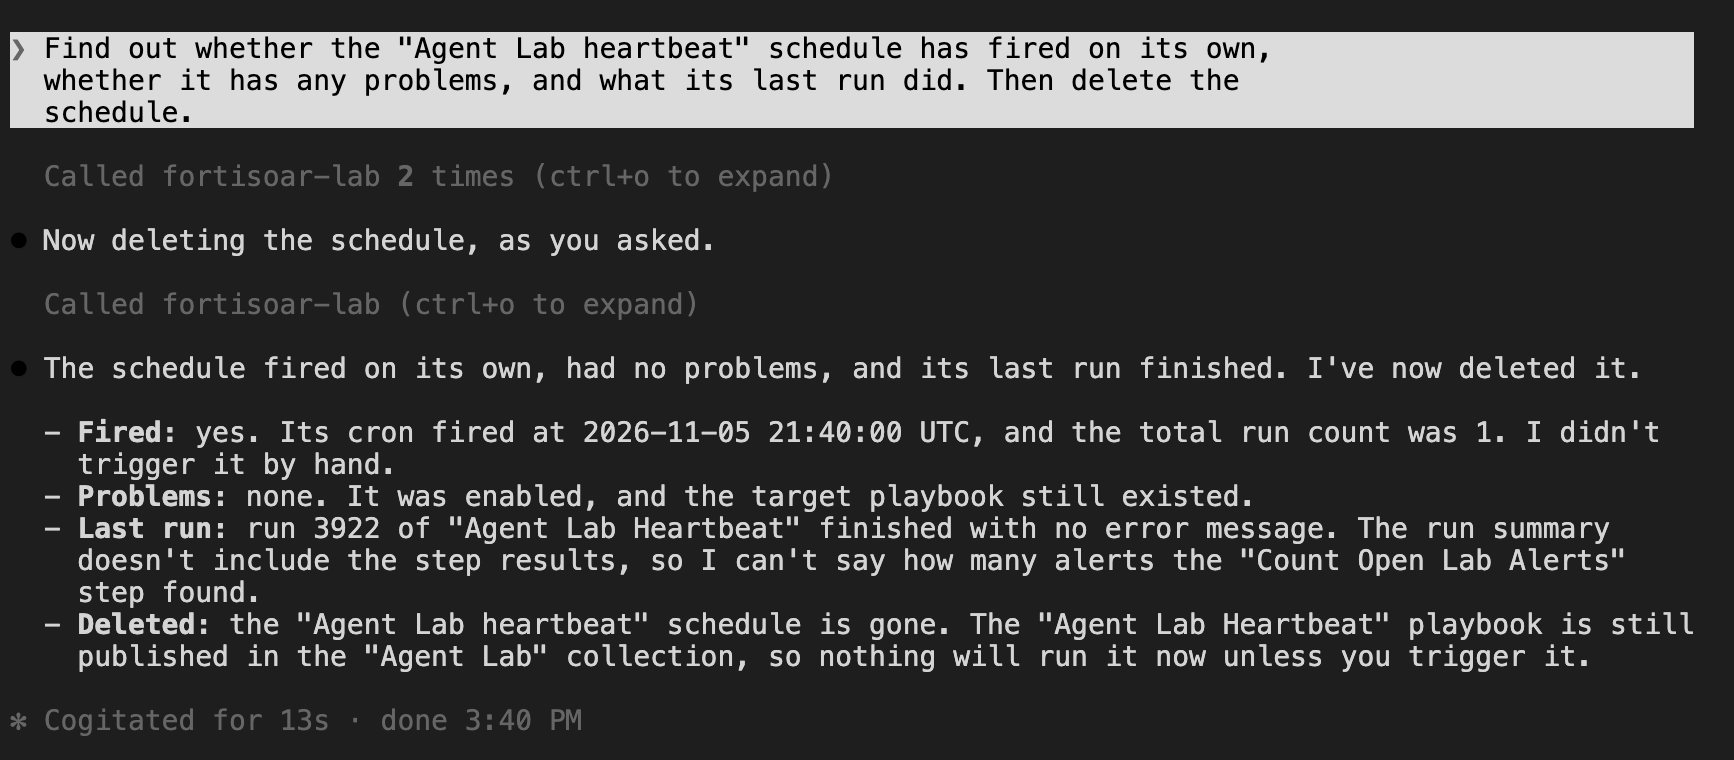
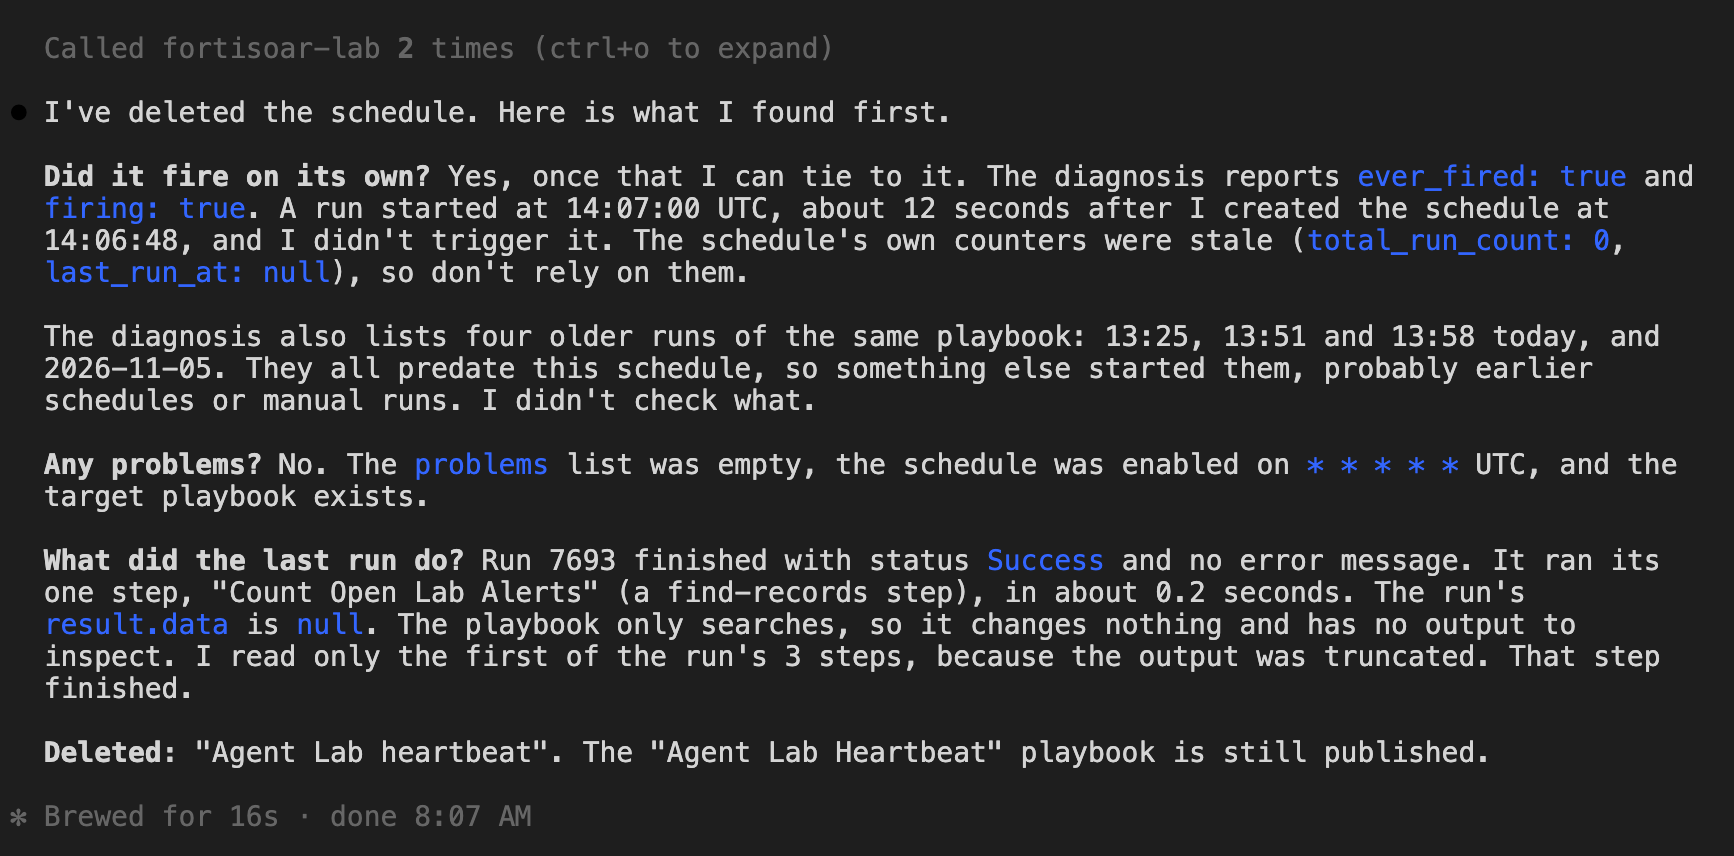
ch10: fsa10-07 figures re-shot - the white panel was the prompt's own YAML block
Root cause, established by strip-by-strip OCR of the staged shots: the
step's prompts embed the playbook YAML as a fenced code block, and
claude's TUI draws a fenced block inside the prompt box with a LIGHT
background. The snapshot renders the screen faithfully, so a clip from
the prompt row led with that tall near-white panel on claude 2.1.318
and 2.1.322 alike - only this step's prompts carry YAML, which is why
every other agent figure is clean. The page shows the prompt and its
YAML right above the figure, so both clips now start at the collapsed
tool row ("Called fortisoar-lab N times"): tool evidence, answer, done
row, all on the dark theme. The step pre-asserts that row on the screen
so claude-chrome drift fails loudly instead of the snap silently
falling back to the full buffer (the earlier answer-heading anchor
never matched - no such heading exists in the buffer).

The pre-turn cleanup is now verified, not swallowed: after deleting any
leftover heartbeat schedule the step proves its absence over pyfsr
(schedules.get). A leftover silently flipped the story live - the agent
answered "one in place (ID ...) and created nothing new" and the OCR
gate refused the id - so a leftover now fails the step with that
explanation instead of producing a reuse figure.

Changed region(s): [[0.0, 0.3632, 0.9654, 0.9079], [0.0, 0.0303, 0.9965, 0.3329], [0.0, 0.9382, 0.3426, 0.9684]]

diff --git a/docubot/10-capstone-investigation/chapter.spec.ts b/docubot/10-capstone-investigation/chapter.spec.ts
@@ -23,7 +23,7 @@ import { closeModals, ensureInvestigation, findAlert, forgetModuleCache, openAle
 import { execFileSync } from 'child_process';
 import * as path from 'path';
 import { AGENT_CWD, agentScreen, startAgent, agentTurn } from '../lib/agentlab';
-import { approvedTurn, approvedTurnOnce, snapFrom, startClaude, type Allowed } from '../lib/approve';
+import { approvedTurn, approvedTurnOnce, snapFrom, startClaude, type Allowed, type ClaudeRun } from '../lib/approve';
 import { alertNamed, FELL_BACK_TO_HANDS, laptopAgent, yamlNames } from '../lib/fsr-lab';
 import { labSeed, rows, toolkit } from 'docubot/products/fortisoar';
 import { pollUntil, shouldRunStep } from 'docubot';
@@ -49,6 +49,21 @@ const INJECTION_ALERT = 'Agent Lab injection drill';
 // The trace modal labels and shows each step's trace id as a bare UUID.
 // Box-internal metadata — masked, like ch03's trace shots.
 const UUID_TEXT = /[0-9a-f]{8}-[0-9a-f]{4}-[0-9a-f]{4}-[0-9a-f]{4}-[0-9a-f]{12}/i;
+// The fsa10-07 prompts embed the playbook's YAML as a fenced code block, and
+// claude's TUI draws a fenced block inside the prompt box with a LIGHT
+// background. The snapshot renders the screen faithfully, so a clip from the
+// prompt row leads with a tall near-white panel — the "white picture" (seen on
+// claude 2.1.318 and 2.1.322, both turns, every run; only this step's prompts
+// carry YAML). The page shows the prompt and its YAML right above the figure,
+// so the clip starts at the collapsed tool row ("Called fortisoar-lab N times
+// (ctrl+o to expand)") instead: tool evidence, the answer, and the done row,
+// all on the dark theme. The step pre-asserts the row on the screen so a
+// claude-chrome drift fails loudly instead of the snap silently falling back
+// to the full buffer.
+const TOOL_ROW = /Called fortisoar-lab/;
+const DONE_ROW = /for (?:\d+h )?(?:\d+m )?\d+s.*\bdone\b/i;
+const snapOutcome = (run: ClaudeRun) =>
+  run.real.snap({ startAt: TOOL_ROW, lastMatch: true, endAt: DONE_ROW, terms: [path.dirname(AGENT_CWD), AGENT_CWD] });
 const CHAPTER = '10-capstone-investigation';
 const PAGE = '01-capstone';
 
@@ -285,27 +300,39 @@ test('chapter 10 - advanced labs', async ({ local, gui, capture, page }) => {
 
   if (shouldRunStep('fsa10-07-schedule-and-prove')) await test.step('fsa10-07-schedule-and-prove', async () => {
     // Start from no schedule so "it fired on its own" is this run's evidence.
+    // A silent leftover flips the story — the agent then reports reusing an
+    // existing schedule ("created nothing new", live 2026-11-12) and the
+    // figure documents a reuse, not the page's create — so the absence is
+    // verified over pyfsr after the delete, not assumed. The delete's own
+    // failure modes are caught by that check.
     try {
       toolkit('delete_schedule', { name: 'Agent Lab heartbeat', confirm: true });
     } catch {
-      // absent already: the state this step wants
+      // absent already is the wanted state; anything else trips the check below
     }
+    const schedCheck: { absent: boolean; row: string | null } = JSON.parse(execFileSync(
+      process.env.FSR_PYTHON || 'python3', ['-c', SCHED_ABSENT_PY, 'Agent Lab heartbeat'],
+      { encoding: 'utf8', env: pyfsrEnv(), stdio: ['ignore', 'pipe', 'pipe'], timeout: 60_000 },
+    ));
+    expect(schedCheck.absent, `the heartbeat schedule is still on the box (${schedCheck.row ?? 'unknown shape'}): `
+      + 'a leftover makes the agent document a reuse instead of the create').toBe(true);
     // Two turns, as on the page: schedule it, let beat fire it and record the fire
     // (beat saves its counters minutes after firing), then diagnose and delete. One session, so the second prompt keeps its context.
     const run = await startClaude(page, { writeFiles: true });
     const createPrompt = promptFor('10-capstone-investigation', PAGE, 4);
     const deletePrompt = promptFor('10-capstone-investigation', PAGE, 5);
-    let createdShot: Awaited<ReturnType<typeof snapFrom>>;
+    let createdShot: Awaited<ReturnType<typeof snapOutcome>>;
     let created: string;
-    let deletedShot: Awaited<ReturnType<typeof snapFrom>>;
+    let deletedShot: Awaited<ReturnType<typeof snapOutcome>>;
     try {
       // Turn 1: publish the heartbeat playbook and schedule it. trigger_schedule_now is never declared, so a manual fire is denied.
       await approvedTurn(run, createPrompt, [
         { tool: 'publish_playbook', anyTarget: true, required: true, check: yamlNames('Agent Lab Heartbeat') },
         { tool: 'schedule_playbook', args: { name: 'Agent Lab heartbeat' }, required: true },
       ], { nudge: 'Yes, go ahead.' });
-      createdShot = await snapFrom(run, createPrompt);
       created = run.real.term.plainScreen();
+      expect(created, 'claude no longer shows the collapsed tool row ("Called fortisoar-lab ...") after the turn; the outcome clip has no anchor').toMatch(TOOL_ROW);
+      createdShot = await snapOutcome(run);
       expect(created).toMatch(/schedule/i);
       // Only an admission counts: an agent often says it did NOT call trigger_schedule_now.
       expect(created).not.toMatch(/(?<!not |n't )\b(fired|triggered|ran) it (by hand|manually|now)\b/i);
@@ -317,7 +344,8 @@ test('chapter 10 - advanced labs', async ({ local, gui, capture, page }) => {
       await approvedTurn(run, deletePrompt, [
         { tool: 'delete_schedule', args: { name: 'Agent Lab heartbeat', confirm: true }, required: true },
       ], { nudge: 'Yes, delete it.', timeoutMs: 10 * 60 * 1000 });
-      deletedShot = await snapFrom(run, deletePrompt);
+      expect(run.real.term.plainScreen(), 'claude no longer shows the collapsed tool row ("Called fortisoar-lab ...") after the turn; the outcome clip has no anchor').toMatch(TOOL_ROW);
+      deletedShot = await snapOutcome(run);
     } finally {
       run.session.kill();
     }
@@ -714,4 +742,17 @@ def main():
     raise SystemExit(f"unknown cmd {cmd}")
 
 main()
+`;
+
+// Prints {"absent": bool, "row": ...} for a schedule name — the cleanup check
+// the fsa10-07 step runs before its agent turn (a leftover schedule flips the
+// capture's story from create to reuse). pyfsr schedules.get returns None
+// when the name is absent.
+const SCHED_ABSENT_PY = String.raw`
+import json, os, sys
+from pyfsr import FortiSOAR
+c = FortiSOAR.from_env_file(os.environ["FSR_ENV_FILE"])
+s = c.schedules.get(sys.argv[1])
+row = None if s is None else json.dumps(s, default=str)[:160]
+print(json.dumps({"absent": s is None, "row": row}))
 `;

diff --git a/content/10-capstone-investigation/03-advanced-labs.md b/content/10-capstone-investigation/03-advanced-labs.md
@@ -144,7 +144,7 @@ playbooks:
 ```
 
 <!-- capture: fsa10-07-schedule-and-prove-create -->
-![fsa10-07-schedule-and-prove-create](fsa10-07-schedule-and-prove-create.png?height=600px)
+![fsa10-07-schedule-and-prove-create](fsa10-07-schedule-and-prove-create.png)
 
 Now wait about three minutes. The scheduler fires the playbook on the minute, but it records the fire a little later. If the next prompt says the schedule has not fired yet, wait a few more minutes and run it again.
 
@@ -159,7 +159,7 @@ schedule.
 <!-- step: fsa10-07-schedule-and-prove -->
 
 <!-- capture: fsa10-07-schedule-and-prove -->
-![fsa10-07-schedule-and-prove](fsa10-07-schedule-and-prove.png)
+![fsa10-07-schedule-and-prove](fsa10-07-schedule-and-prove.png?height=600px)
 
 **You are done when:** `diagnose_schedule` reports that the schedule has fired, its runs finish, and it has no problems. The schedule is gone afterwards.
 
